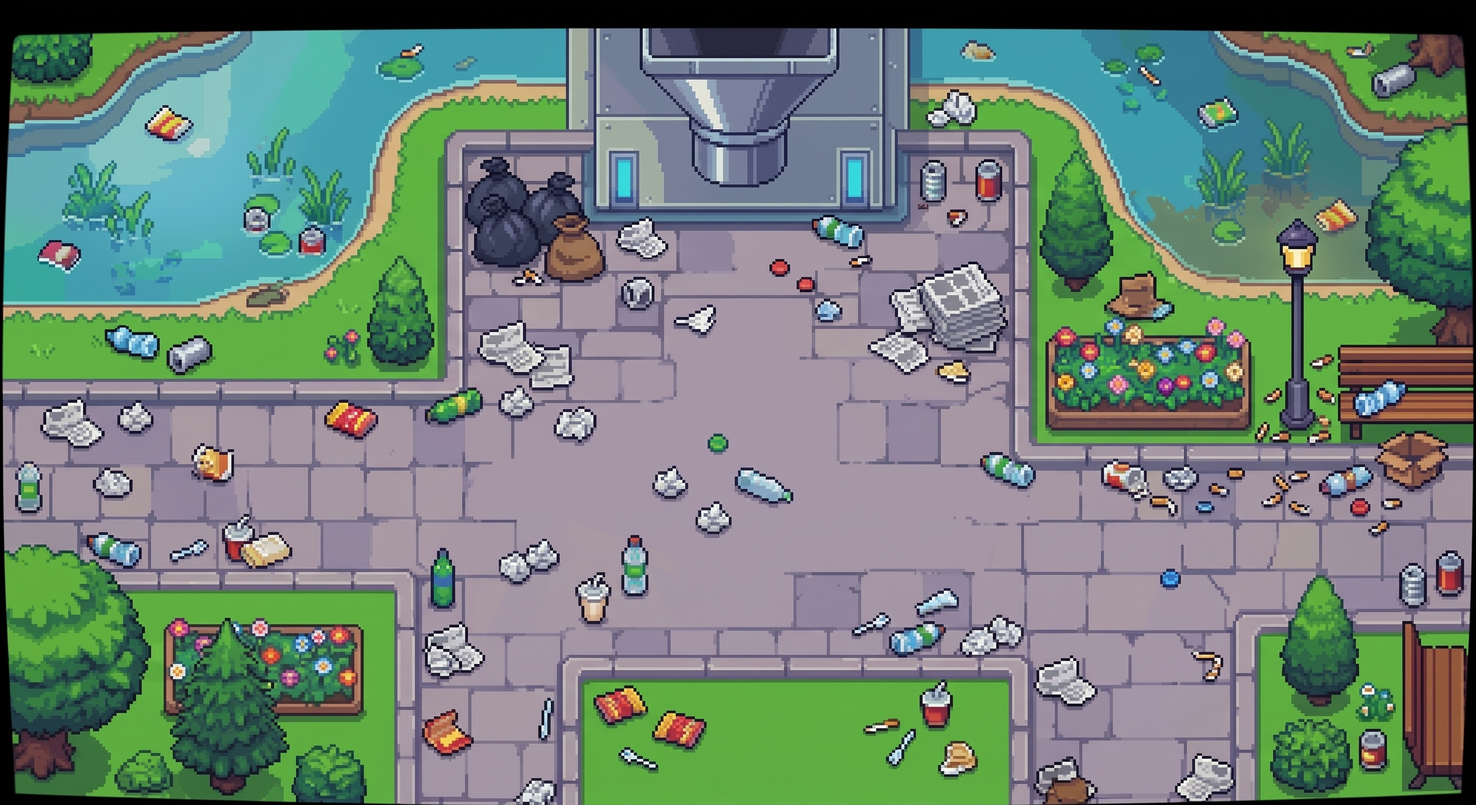
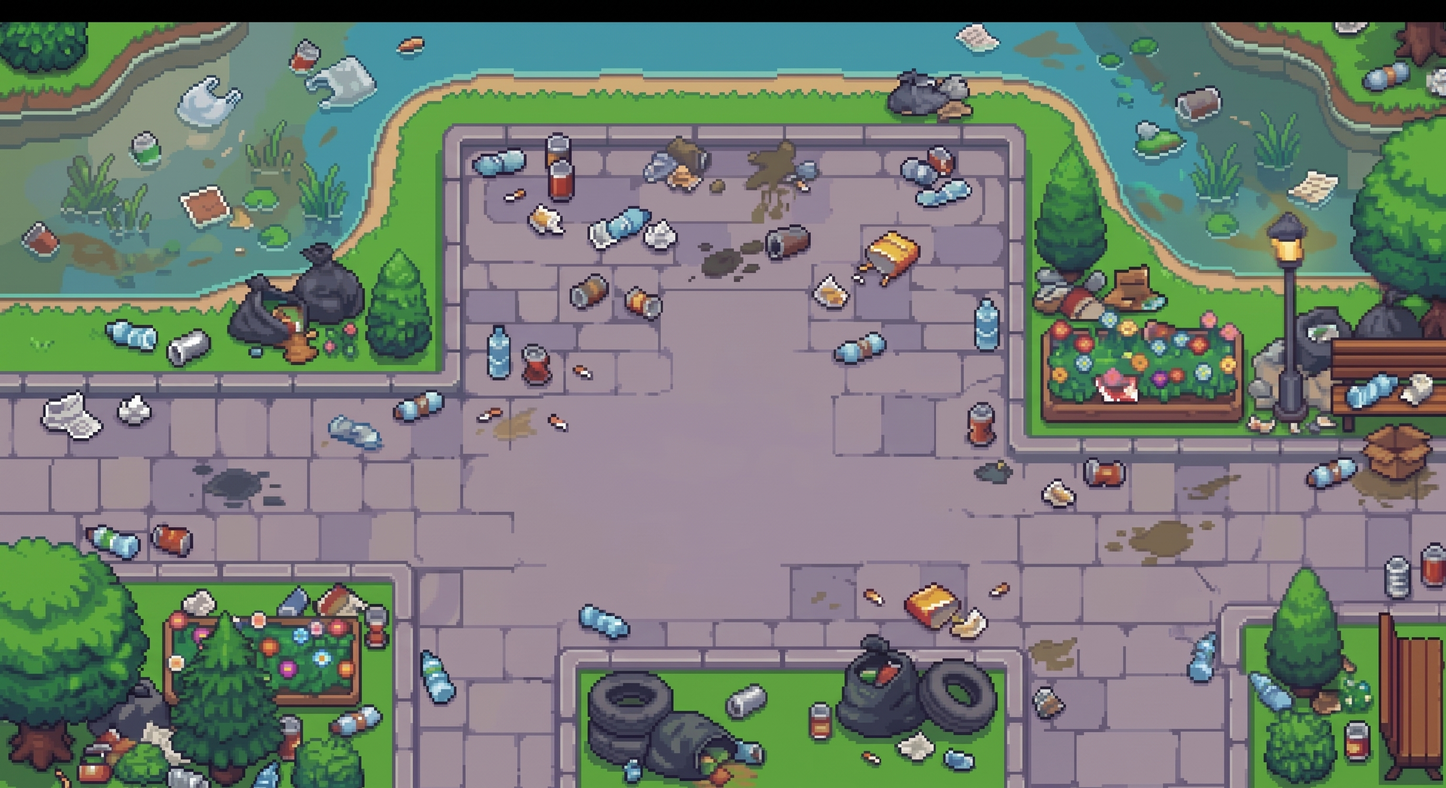
feat: atualiza assets do background

diff --git a/sedr/main.py b/sedr/main.py
@@ -26,7 +26,7 @@ pygame.display.set_caption("SEDR")
 # =========================
 
 img_bkg_original = pygame.image.load(
-    "assets/background/bg_park_dirty_00.jpeg"
+    "assets/background/bg_park_dirt_00.jpeg"
 ).convert()
 
 img_bkg = pygame.transform.scale(
